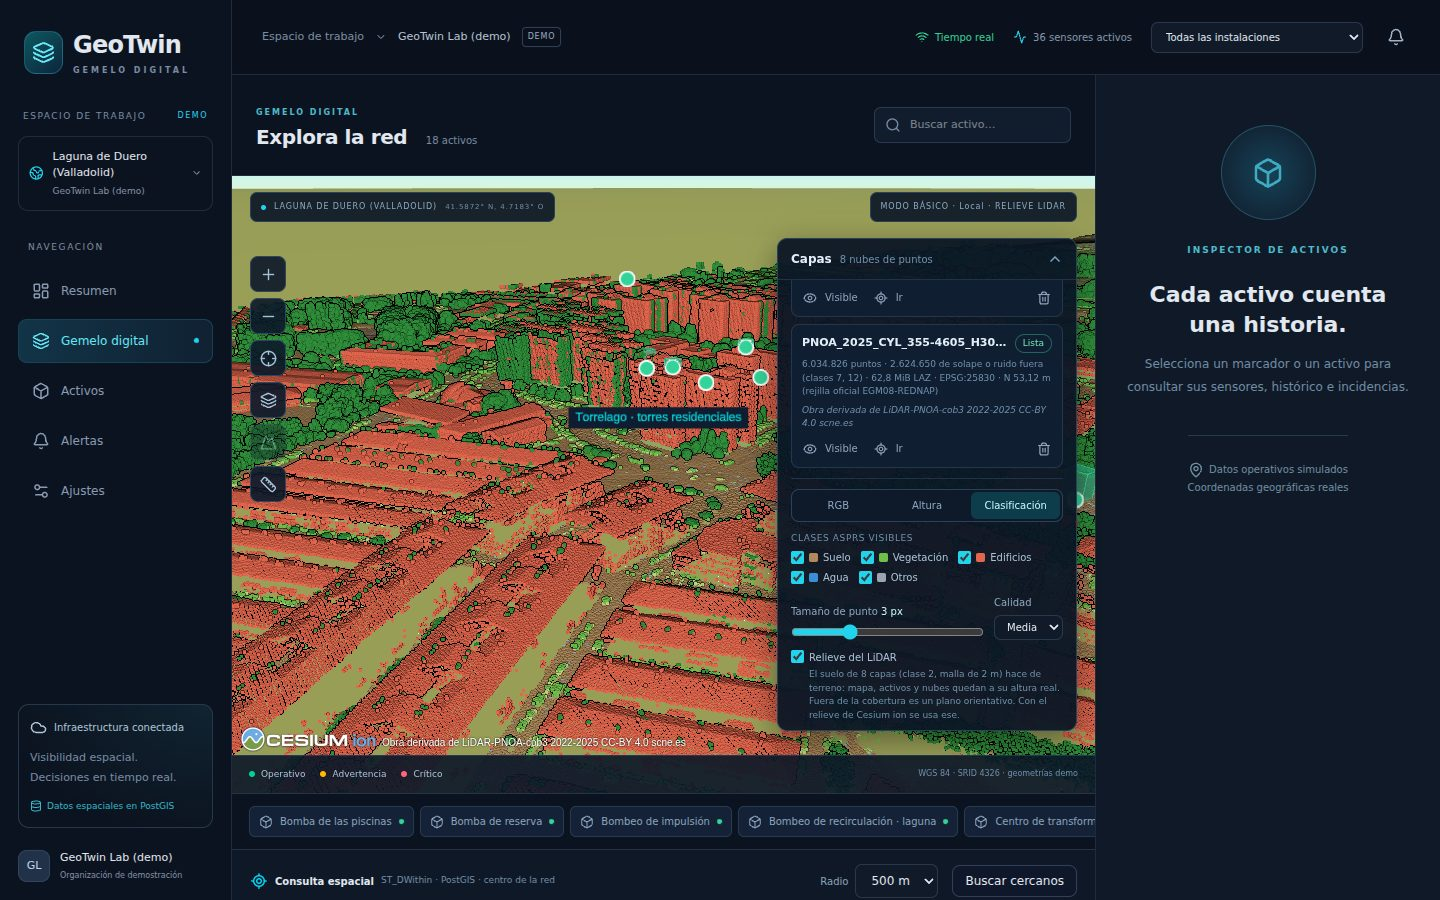
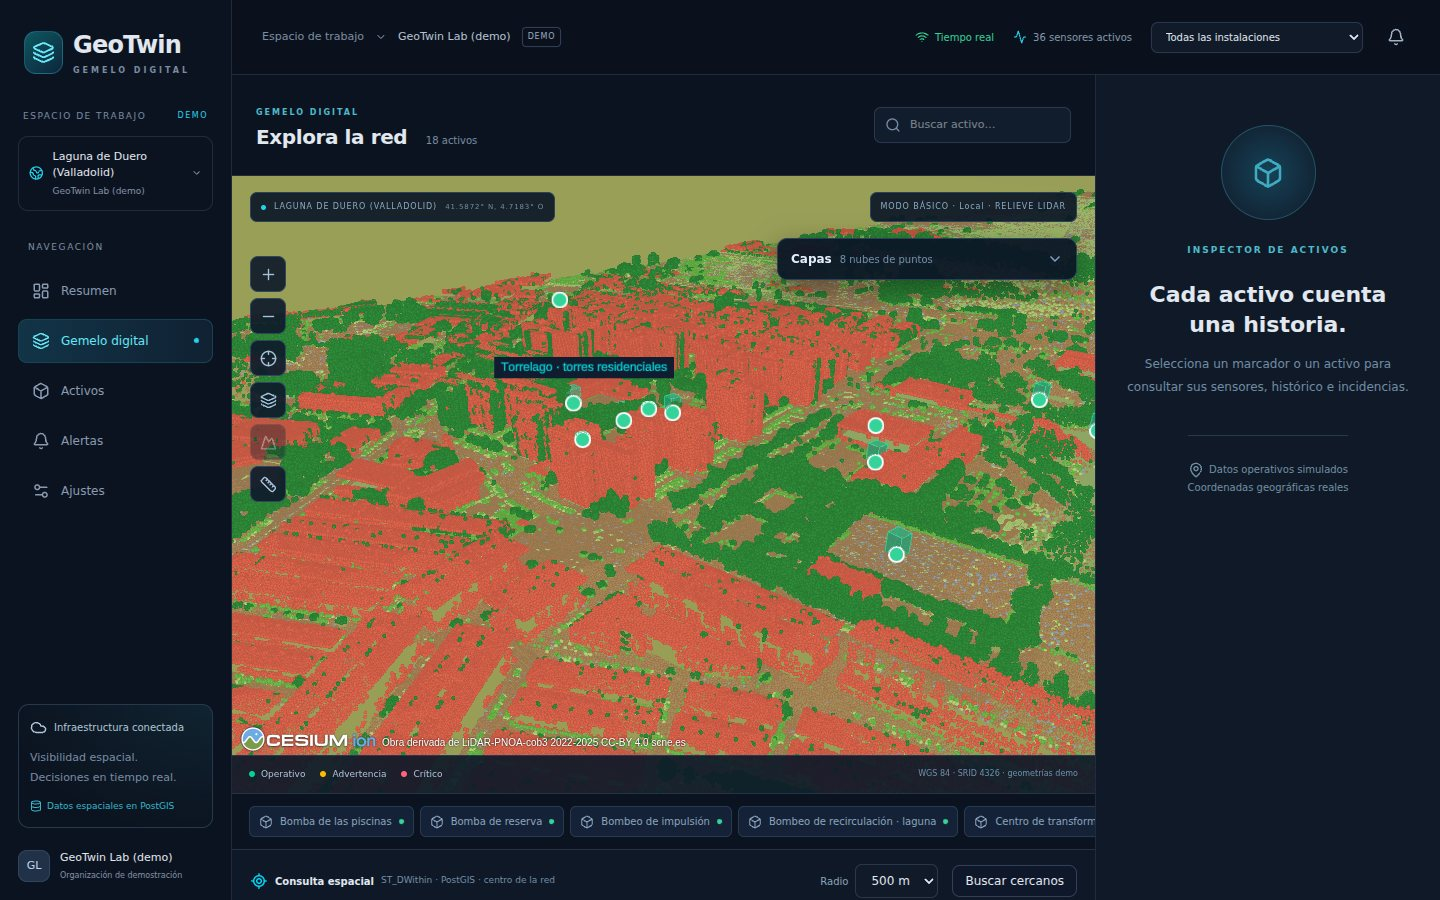
docs: how the cloud is drawn, the Google layer and new Laguna screenshots
New screenshots with round points and quality Alta at mid-height
obliques and top-down views (Torrelago, the town from above, ASPRS
classes, the tower and lake measurements, the lake alert, the Capas
panel, the phone alert), plus a before/after of Torrelago from the same
camera. The Laguna guide explains what aerial LiDAR can and cannot show
(19.5 % of 1 m cells around Torrelago have no point at all) and records
the repeated measurements; architecture.md the rendering choices;
fotorrealista.md the optional layer, its conditions and the manual test
steps. laguna-movil.jpg, no longer linked, is removed.

Claude-Session: https://claude.ai/code/session_01BEvotRhPSGFhtZzXa95Uqt

Changed region(s): [[0.1562, 0.1867, 0.7812, 0.84]]

diff --git a/docs/fotorrealista.md b/docs/fotorrealista.md
@@ -1,0 +1,59 @@
+# Capa fotorrealista (Google), opcional
+
+El visor puede poner debajo de los activos la malla 3D fotorrealista de **Google Photorealistic 3D Tiles**, servida a través de **Cesium ion** (asset 2275207). Es una opción para enseñar el entorno con aspecto real; no sustituye a la nube PNOA-LiDAR, que sigue siendo la base medida del gemelo.
+
+**No se ha podido probar con Google de verdad.** El entorno en el que se ha desarrollado no tiene salida a `cesium.com` ni a los servidores de Google. Lo que sí está probado es la lógica alrededor: una prueba E2E sustituye la respuesta de Cesium ion por una malla plana local y comprueba el interruptor, el globo oculto, los activos apoyados en la malla, la medición, el crédito en pantalla y los mensajes de error (401 y 429), y las pruebas unitarias cubren la carga y la clasificación de errores con dobles. Los pasos de la [prueba manual](#prueba-manual) sirven para confirmarlo con una cuenta real.
+
+## Qué hace
+
+- El botón **Fotorrealista (Google)** (icono de edificio, en la columna de controles del mapa) **solo aparece si la web se ha construido con `VITE_CESIUM_ION_TOKEN`**. Sin token no se ofrece.
+- Al activarlo se carga el tileset con `createGooglePhotorealistic3DTileset` de CesiumJS, que, sin clave propia de Google, lo pide a Cesium ion. Se carga **una sola vez**: apagarlo y encenderlo después solo lo oculta y lo muestra, para no volver a pedir la tesela raíz (cuenta para la cuota).
+- Con la capa activa:
+  - Se **oculta el globo**: las teselas de Google ya incluyen el suelo. Con él se ocultan el relieve del LiDAR y la cartografía de fondo. Si estaban cargados los edificios OSM de ion, también se ocultan (serían los mismos edificios dos veces).
+  - Los **activos** se apoyan en la malla, en su posición (`HeightReference.RELATIVE_TO_3D_TILE`): la pasarela de una cubierta queda sobre la cubierta de la malla, sin sumar su altura de montaje, porque la malla ya tiene el edificio. Las áreas de las instalaciones se dibujan sobre la malla y sus etiquetas se pegan a ella.
+  - Las **nubes PNOA** se siguen pudiendo mostrar encima, a su altura real, desde el panel Capas. Donde la nube y la malla coinciden, se tapan una a otra según cuál quede delante en cada píxel.
+  - **Medir** funciona igual: el clic toma la profundidad de lo dibujado, ahora la malla. «Al suelo (MDT)» sigue usando el modelo del terreno del LiDAR si hay hojas cargadas.
+  - La **atribución** de Google y de sus proveedores de datos se muestra en el propio mapa (`showCreditsOnScreen`), como exigen sus condiciones, junto a la de PNOA-LiDAR si hay nubes visibles.
+- Al apagarla vuelven el globo, el relieve del LiDAR y la cartografía de fondo.
+- El visor no tiene geocodificador, así que no se usa ningún otro geocodificador con estas teselas (las condiciones de Google lo exigen).
+
+## Errores
+
+Si algo falla, la capa no se activa (o se desactiva sola) y el visor sigue con la vista LiDAR. El mensaje aparece sobre el mapa:
+
+| Situación                                                | Cómo se detecta                                                               | Mensaje (resumido)                                   |
+| -------------------------------------------------------- | ----------------------------------------------------------------------------- | ---------------------------------------------------- |
+| El token no tiene el asset 2275207 o no autoriza esa URL | HTTP 401, 403 o 404 de Cesium ion                                             | «El token de Cesium ion no da acceso…»               |
+| Cuota mensual agotada                                    | HTTP 429, o un mensaje con «quota»                                            | «La cuenta de Cesium ion ha agotado su cuota…»       |
+| Sin conexión                                             | El navegador está desconectado o la petición no recibe respuesta              | «Sin conexión con Cesium ion o con Google…»          |
+| Otro fallo                                               | Cualquier otra respuesta                                                      | «No se pudo cargar la capa fotorrealista de Google…» |
+| Fallan teselas con la capa ya activa                     | Una tesela rechazada (401, 403, 429) o 8 fallos seguidos sin ninguna correcta | El de la tabla según el caso; la capa se apaga sola  |
+
+El código exacto que devuelve Cesium ion al agotar la cuota no se ha podido comprobar; se trata como cuota cualquier 429 o mensaje que la mencione, y el resto cae en «Otro fallo» sin romper el visor.
+
+## Condiciones de uso
+
+- Hace falta una cuenta de **Cesium ion** con el asset **Google Photorealistic 3D Tiles (2275207)** añadido a «My Assets» y un token con acceso a él.
+- El plan gratuito **Community** de Cesium ion es para uso **personal o no comercial** y tiene una **cuota mensual de teselas raíz** de Google (cada carga de la capa la consume). Esta demo **no debe publicarse con ese token**: una demo pública agotaría la cuota y no es un uso personal.
+- Un `VITE_*` acaba **dentro del bundle**: cualquiera que abra la web puede leer el token. Usa un token de solo lectura, limitado a los assets necesarios y a la URL desde la que lo vas a abrir (por ejemplo `http://localhost:5173`).
+- Las teselas, sus imágenes y su atribución son de Google y sus proveedores, sujetas a las condiciones de Google Maps Platform y de Cesium ion. No se descargan, no se guardan en el repositorio y no se usan en las capturas ni en el vídeo de este repositorio.
+
+## Prueba manual
+
+Hace falta una cuenta propia de Cesium ion. Unos 10 minutos.
+
+1. En [ion.cesium.com](https://ion.cesium.com/), en **Asset Depot**, busca «Google Photorealistic 3D Tiles» y pulsa **Add to my assets**. Comprueba en **My Assets** que aparece con el id **2275207**.
+2. En **Access Tokens**, crea un token nuevo con el ámbito `assets:read`, limitado a los assets 2275207, 1 (Cesium World Terrain) y 96188 (OSM Buildings), y a la URL `http://localhost:5173` (o `http://localhost:8080` con Docker).
+3. Pon el token en `.env` como `VITE_CESIUM_ION_TOKEN=…` y arranca la web (`npm run dev`, o `docker compose up -d --build --wait`: la imagen web lo toma al construirse).
+4. Abre **Gemelo digital** con las hojas de Laguna de Duero cargadas. Comprueba que la etiqueta superior dice «ION LISTO» y que en la columna de controles hay un botón con un edificio cuyo título es «Fotorrealista (Google)».
+5. Púlsalo. En unos segundos deberías ver la malla de Google; la etiqueta superior cambia a «FOTORREALISTA (GOOGLE)» y el botón queda marcado. Comprueba:
+   - abajo, en el mapa, el logotipo o el texto de Google y sus proveedores de datos, sin abrir ningún desplegable;
+   - que no se ve el mapa de fondo ni el relieve del LiDAR (solo la malla);
+   - que los marcadores de Torrelago están sobre las cubiertas de las torres y los de la laguna en la orilla;
+   - que con **Medir**, dos clics en el suelo dan una distancia razonable y uno en una cubierta y otro al pie de su torre dan unos 42 m de desnivel;
+   - que en Capas se pueden ocultar y mostrar las nubes PNOA encima de la malla.
+6. Vuelve a pulsar el botón: regresan el mapa de fondo y el relieve del LiDAR. Púlsalo otra vez: la malla vuelve sin esperar (no se vuelve a cargar).
+7. Errores (opcional): con un token sin el asset 2275207 el mapa debe decir «El token de Cesium ion no da acceso…» y seguir con la vista LiDAR; con la red cortada (modo sin conexión de las herramientas del navegador) antes de pulsar, «Sin conexión…».
+8. En la página de la cuenta de Cesium ion, mira el consumo de Google 3D Tiles: cada carga de la capa cuenta una sesión de tesela raíz.
+
+Si algún punto no se cumple, anota el mensaje del mapa y lo que muestre la consola del navegador.

diff --git a/docs/architecture.md b/docs/architecture.md
@@ -143,6 +143,8 @@ React crea y destruye Viewer y manejadores para evitar fugas y contextos WebGL a
 
 **Relieve del LiDAR.** Sin Cesium ion el globo es el elipsoide (h = 0) y una nube de Laguna de Duero, a unos 750 m de altura elipsoidal, flotaría sobre el mapa. `features/layers/lidar-terrain-provider.ts` descarga los MDT de las capas listas (una vez por URL, que es inmutable) y monta un `CustomHeightmapTerrainProvider` de 65 × 65 muestras por tesela. Las alturas las calcula `lidar-terrain.ts`, sin Cesium y con pruebas unitarias: dentro de la huella de una hoja, interpolación bilineal de su MDT; fuera, el borde de la hoja más cercana se funde en 400 m con un plano a la altura mediana de todas (la meseta en torno a Valladolid es casi llana, pero ese plano es un relleno visual, no un dato), y entre 30 y 60 km el plano vuelve al elipsoide. El terreno se dibuja 25 cm por debajo del suelo medido para que la superficie lisa no tape los puntos de suelo de la nube. Con este relieve, la ortofoto, los activos (anclados al terreno, a su altura de montaje) y las nubes quedan juntos a su altura real, y la cámara apunta a la altura del terreno. El panel Capas permite apagarlo; si se cargan el terreno y los edificios de ion, se usa el de ion.
 
+**Capa fotorrealista (opcional).** Con `VITE_CESIUM_ION_TOKEN`, el botón «Fotorrealista (Google)» carga Google Photorealistic 3D Tiles con `createGooglePhotorealistic3DTileset` (asset 2275207 de ion) una sola vez y después solo lo muestra u oculta. Mientras está activo se oculta el globo (las teselas ya traen el suelo), los activos usan `RELATIVE_TO_3D_TILE` sin altura de montaje (la malla ya tiene las cubiertas), las áreas se clasifican también sobre 3D Tiles y las nubes mantienen su altura real. La lógica de carga y errores está en `photorealistic.ts`, sin Cesium, con pruebas unitarias; una prueba E2E sustituye la respuesta de ion por una malla local. Detalle, condiciones y prueba manual en [fotorrealista.md](fotorrealista.md).
+
 PNOA y el globo elipsoidal no invocan ion. La capa Natural Earth local da continuidad básica sin red. Buildings se activa junto con Cesium World Terrain, con token y errores visibles. Si falla la lectura del terreno, no se añade el tileset de edificios sobre el elipsoide. Activos y etiquetas usan RELATIVE_TO_TERRAIN con la altura de montaje del activo (`mount_height_m`: 0 a ras de suelo, la cubierta para una pasarela en una torre); las áreas se clasifican sobre el terreno. Se conserva la elevación original del tileset OSM, sin traslaciones artificiales. Se conservan créditos cartográficos. Integración de recursos basada en la [documentación oficial de Cesium](https://cesium.com/blog/2024/02/13/configuring-vite-or-webpack-for-cesiumjs/); consulta espacial según [ST_DWithin](https://postgis.net/docs/ST_DWithin.html).
 
 ### Capas y medición en el visor
@@ -154,6 +156,11 @@ Dentro del chunk de Cesium, `features/layers/point-cloud-layers.ts` sincroniza e
 - **Altura en el shader.** El estilo no tiene la altura del punto, solo su posición ECEF (`${POSITION_ABSOLUTE}`). Con la normal geodésica n en el centro de la capa, un punto a altura h sobre esa normal cumple `dot(P, n) = a·sqrt(1 − e²·sin²φ) + h`; a 500 m del centro el error es la curvatura, d²/2R ≈ 2 cm. La posición llega al shader en float32 (unos 0,5 m de resolución a 6.400 km del centro de la Tierra): suficiente para una rampa de color, no para medir.
 - **Globo básico.** Sin relieve (ni el del LiDAR ni el de ion) el globo es el elipsoide y la nube flotaría su altura elipsoidal entera (unos 750 m en Laguna de Duero). Se baja con una traslación a lo largo de n hasta que su punto más bajo toca el elipsoide, y la expresión de altura suma ese desplazamiento para seguir leyendo alturas reales. La casilla «Altura real» y el relieve de ion la desactivan.
 - **Tamaño de los puntos.** La atenuación de Cesium usa el error geométrico de la tesela; py3dtiles lo deja a 0 en las hojas y Cesium lo estimaba con el volumen de la caja, casi plana en un terreno llano, de modo que los puntos salían de un píxel. Como `baseResolution` se usa la separación media de la capa, calculada con su huella y su número de puntos (0,45 m en una hoja PNOA cob3).
+- **Puntos redondos.** Cada tileset lleva un `CustomShader` solo de fragmentos que descarta lo que queda fuera del círculo (`gl_PointCoord`) y oscurece un poco el borde del disco: los cuadrados se leían como píxeles gruesos. No tiene shader de vértices a propósito: uno propio sustituye el tamaño que da la atenuación de Cesium (`gl_PointSize = vsOutput.pointSize`). El estilo de 3D Tiles (RGB, altura, clasificación) se sigue aplicando, y el clic y la medición siguen cayendo en los discos dibujados.
+- **Cuánto crece cada punto.** py3dtiles reparte los puntos en niveles que se suman (refinamiento `ADD`): en una hoja de Laguna, el nivel con error geométrico de 7 m deja ya los puntos a 1,2 m de media, y las hojas del árbol, a 0,4 m. La atenuación da a cada punto el tamaño de ese error en pantalla, con un máximo: **Tamaño de punto** (4 px por defecto en escritorio, 3 en el móvil). Con 3 px seguían viéndose huecos a media distancia; con 5-6 px, de cerca, los discos parecen escamas. Más cerca de lo que da la densidad (unos 5 puntos/m² sin solape), los puntos se separan: el máximo no se sube para taparlo.
+- **Eye-dome lighting.** Oscurece cada salto de profundidad (bordes de edificios, copas) y daba a la nube un aspecto de dibujo con contornos. Está apagado por defecto; la casilla «Realzar bordes (EDL)» lo enciende más suave que antes (intensidad 0,35 y radio 0,75 en lugar de 0,8 y 1).
+- **Calidad.** Cada nivel fija el `maximumScreenSpaceError` y la caché de teselas de cada capa: Baja 16 y 64 MB, Media 12 y 128 MB, Alta 3 y 256 MB (una hoja PNOA son unos 100 MB de teselas, así que en Alta cabe entera). Los móviles, las pantallas de 950 px o menos y los equipos que dicen tener 4 GB de memoria o menos empiezan en Baja; el resto, en Media.
+- **Sin mapa de entorno.** Cesium mantiene en cada tileset un mapa de iluminación (IBL) que actualiza leyendo píxeles de la GPU. Los puntos no se iluminan, así que no sirve para nada, y con las ocho capas un perfil de 15 s pasaba 6,6-7,4 s en esas lecturas. Se desactiva (`environmentMapOptions: { enabled: false }`).
 
 La herramienta **Medir** (`features/measure`) es otro chunk diferido (7 kB). Toma puntos con `scene.pickPosition` (profundidad de lo dibujado; elipsoide si no hay nada) y calcula en `geodesy.ts`: suma de cuerdas 3D, geodésicas con `EllipsoidGeodesic`, desnivel por altura elipsoidal y área horizontal en el plano tangente del centroide tras llevar los vértices a h = 0. Mientras está abierta, el clic del mapa añade puntos en lugar de seleccionar activos. Las líneas y polígonos de entidades se construyen de forma asíncrona y en `requestRenderMode` Cesium no pide un fotograma al terminar, así que la herramienta pide fotogramas durante un segundo tras cada cambio.
 

diff --git a/docs/laguna-de-duero.md b/docs/laguna-de-duero.md
@@ -2,7 +2,7 @@
 
 El escenario por defecto de la demo está en **Laguna de Duero (Valladolid)** y usa **ocho hojas reales de PNOA-LiDAR** (3.ª cobertura) procesadas por el mismo camino que cualquier subida: API → almacenamiento → cola pg-boss → worker → 3D Tiles. Las instalaciones y los activos son **ficticios** y su telemetría es **simulada**; solo su posición y su altura de montaje se han tomado de la nube de puntos. No son los sistemas reales del municipio.
 
-![Torres de Torrelago en la nube LiDAR real, en color RGB](screenshots/laguna-torrelago.jpg)
+![Torrelago en la nube LiDAR real, en color RGB, con calidad Alta](screenshots/laguna-torrelago.jpg)
 
 ## Los datos
 
@@ -62,6 +62,23 @@ Medido en este entorno (4 CPU, `TILER_JOBS=3`, almacenamiento local, rejilla ofi
 - **Densidad**: se dibujan todos los puntos que no son solape ni ruido; no se aclara la nube. Quitar el solape, además de limpiar la imagen, ahorra un 25 % de espacio.
 - El MDT tarda 0,2 s por hoja y ocupa 0,5 MB. «Celdas con suelo» es la parte de la malla con puntos de clase 2; el resto (edificios, la laguna, sombras) se rellena.
 
+## Cómo se dibuja la nube
+
+Es LiDAR **aéreo**: unos 8 puntos/m² con el solape y 5-6 sin él, tomados desde un avión, con el color de una ortofoto cenital. Las cubiertas, el suelo abierto y las copas quedan bien; las fachadas reciben pocos puntos y los patios estrechos y las calles entre bloques altos, ninguno. Alrededor de Torrelago (600 × 600 m), el **19,5 %** de las celdas de 1 m no tiene ningún punto dibujado, y solo un 5 % de esas celdas vacías (el 1 % del total) tenía puntos de solape: el hueco es del vuelo, no de quitar el solape. Por eso de cerca la nube no puede parecerse a un escaneo terrestre, y las capturas y el vídeo se hacen a media altura o en cenital. En los huecos se ve el mapa de fondo sobre el relieve (aquí, el atlas local de baja resolución; con la ortofoto PNOA, la imagen real).
+
+El visor la dibuja así (detalle técnico en [architecture.md](architecture.md#capas-y-medición-en-el-visor)):
+
+- **Puntos redondos** con el borde algo más oscuro, en lugar de cuadrados.
+- **Tamaño**: la atenuación de Cesium da a cada punto el tamaño de la separación de su nivel de detalle, hasta un máximo de 4 px en escritorio (3 en el móvil). Con 3 px quedaban huecos a media distancia; con 5-6, de cerca, los discos parecen escamas.
+- **Sin contornos**: el _eye-dome lighting_ oscurecía cada borde de edificio y de árbol, y la nube parecía un dibujo. Ahora está apagado; la casilla «Realzar bordes (EDL)» lo enciende, más suave que antes.
+- **Calidad** Baja, Media o Alta (error en pantalla 16, 12 o 3 y caché de 64, 128 o 256 MB por capa). Los móviles empiezan en Baja y el resto en Media; las capturas de esta página son en Alta.
+
+Antes y después, con la misma cámara y calidad Alta (izquierda, puntos cuadrados con EDL fuerte; derecha, la versión actual):
+
+![Torrelago antes y después del cambio de dibujo de la nube](screenshots/laguna-antes-despues.jpg)
+
+Las dos capturas se hicieron con un renderizador por software, que en una vista oblicua no termina de cargar todas las teselas en los 5 minutos de espera. Con el mismo tiempo, la de la derecha cargó más (la glorieta del centro sale en ella y no en la de la izquierda), en parte porque ya no se lee la GPU en cada fotograma (ver [architecture.md](architecture.md#capas-y-medición-en-el-visor)); la diferencia de aspecto en lo que sí está cargado (bloques en primer plano, torres) es la del cambio de dibujo.
+
 ## Comprobación del datum vertical con los datos reales
 
 Hecha aparte del código del worker: la ondulación N se ha leído directamente del GeoTIFF oficial `es_ign_egm08-rednap.tif` con interpolación bilineal propia, y las alturas elipsoidales de los puntos se han calculado desde sus coordenadas ECEF en las teselas servidas con una fórmula iterativa propia sobre GRS80 (pyproj solo empareja cada punto con el original en planta).
@@ -99,6 +116,10 @@ Hechas con la herramienta **Medir** del visor (clics sobre lo dibujado) y contra
 | Avenida al sur de Torrelago, entre dos glorietas                | 301,3 m horizontal, desnivel −0,46 m   | 301,26 m de geodésica (pyproj, WGS84) entre los dos puntos picados                                                                                                                                              |
 | Superficie de la laguna (polígono de 28 vértices por la orilla) | 36.919 m² (3,69 ha), perímetro 929,9 m | 36.919,4 m² y 929,9 m con pyproj para los mismos vértices. Zona sin retornos en la nube: 34.204 m² de agua; el polígono incluye además la isla y el embarcadero                                                 |
 
+Repetidas el 13/10/2026 con los puntos redondos de 4 px y calidad Alta (el clic tiene que seguir cayendo en los discos dibujados): torre **−41,7 m** de desnivel y 38,5 m en horizontal (38,47 m con pyproj entre los dos puntos picados); laguna **36.935 m²** y 927,3 m de perímetro, frente a 36.941 m² y 927,4 m con pyproj para los mismos 28 vértices (la herramienta proyecta al plano tangente; pyproj calcula sobre el elipsoide).
+
+![Medición de la altura de una torre de Torrelago](screenshots/laguna-medicion-torre.jpg)
+
 ![Medición del área de la laguna](screenshots/laguna-medicion.jpg)
 
 Un clic toma la profundidad de lo dibujado: sobre una nube a 3 px por punto, el punto picado puede quedar unos 30 cm por delante del punto LiDAR (en la torre, el suelo picado quedó 27 cm por encima de los puntos de suelo). Las alturas de la tabla son las de la nube, no las de un plano de proyecto.
@@ -109,6 +130,7 @@ Un clic cae sobre lo primero que se ve en ese píxel: la copa de un árbol, un c
 
 - Fuera de las ocho hojas el terreno es un **plano orientativo** a la altura mediana del MDT, que se funde con el borde de los datos en 400 m y vuelve al elipsoide a 30-60 km. Donde falta la hoja 355-4604 se ve ese plano.
 - La laguna no tiene superficie de agua: en la nube es un hueco y en el MDT una superficie interpolada desde la orilla.
+- Densidad de LiDAR aéreo: las fachadas tienen pocos puntos y los patios estrechos ninguno (ver [Cómo se dibuja la nube](#cómo-se-dibuja-la-nube)). La capa opcional [Fotorrealista (Google)](fotorrealista.md) da el aspecto real del entorno, pero no es un dato medido de este proyecto.
 - Sin ion, la ortofoto PNOA del IGN no se pudo cargar en este entorno (red bloqueada); las capturas usan el mapa local de baja resolución bajo la nube.
 - En las capturas, hechas con un renderizador por software (SwiftShader), las teselas lejanas aún no habían cargado su máximo detalle; con una GPU cargan en segundos.
 - Una hoja de 2 × 2 km o más densa multiplica tiempos y disco de forma aproximadamente lineal; la subida pasa por la API (150 MiB por defecto).

diff --git a/docs/demo-guide.md b/docs/demo-guide.md
@@ -12,8 +12,10 @@ Antes: arranca Compose, comprueba `/api/health`, deja el token ion vacío para e
 **Nube de puntos y medición (60 s más, opcional).**
 
 1. **Capas.** Abre el panel: ocho hojas `PNOA_…` listas, con sus puntos, los de solape descartados y la ondulación del geoide aplicada. Señala la atribución de PNOA-LiDAR en los créditos del visor. Si quieres enseñar el pipeline en directo, arrastra la nube **sintética** `apps/worker/tests/fixtures/synthetic-laguna-duero.laz`: verás _En cola_, _Procesando N %_ con su etapa y _Lista_, empujados por WebSocket desde el worker.
-2. **Estilos.** Acércate a las torres de Torrelago y cambia entre **RGB**, **Altura** y **Clasificación**; desmarca **Suelo** para dejar edificios y árboles.
+2. **Estilos.** Pon **Calidad** en **Alta**, mira las torres de Torrelago desde media altura (no pegado a las fachadas: el LiDAR aéreo apenas tiene puntos en ellas) y cambia entre **RGB**, **Altura** y **Clasificación**; desmarca **Suelo** para dejar edificios y árboles.
 3. **Medir.** Pulsa la regla y haz clic en la cubierta de una torre y en el suelo de al lado: unos 42 m de desnivel. Cambia a **Área** y rodea la laguna: unas 3,7 ha. Comenta que las distancias horizontales son geodésicas sobre WGS84 y que el relieve es el modelo del terreno sacado de la propia nube.
+
+**Fotorrealista (Google), opcional.** Solo en local y con tu propio token (no en una demo pública, por la cuota y las condiciones del plan gratuito de Cesium ion): el botón del edificio pone la malla de Google bajo los activos; vuelve a pulsarlo para regresar a la vista LiDAR. Ver [fotorrealista.md](fotorrealista.md).
 
 Para demostrar resincronización: abre dos pestañas, genera el fallo en una y observa la otra. Interrumpe temporalmente la red de una pestaña, resuelve desde la segunda y restaura la conexión: la primera consulta REST tras reconectar y recupera el estado vigente.
 
